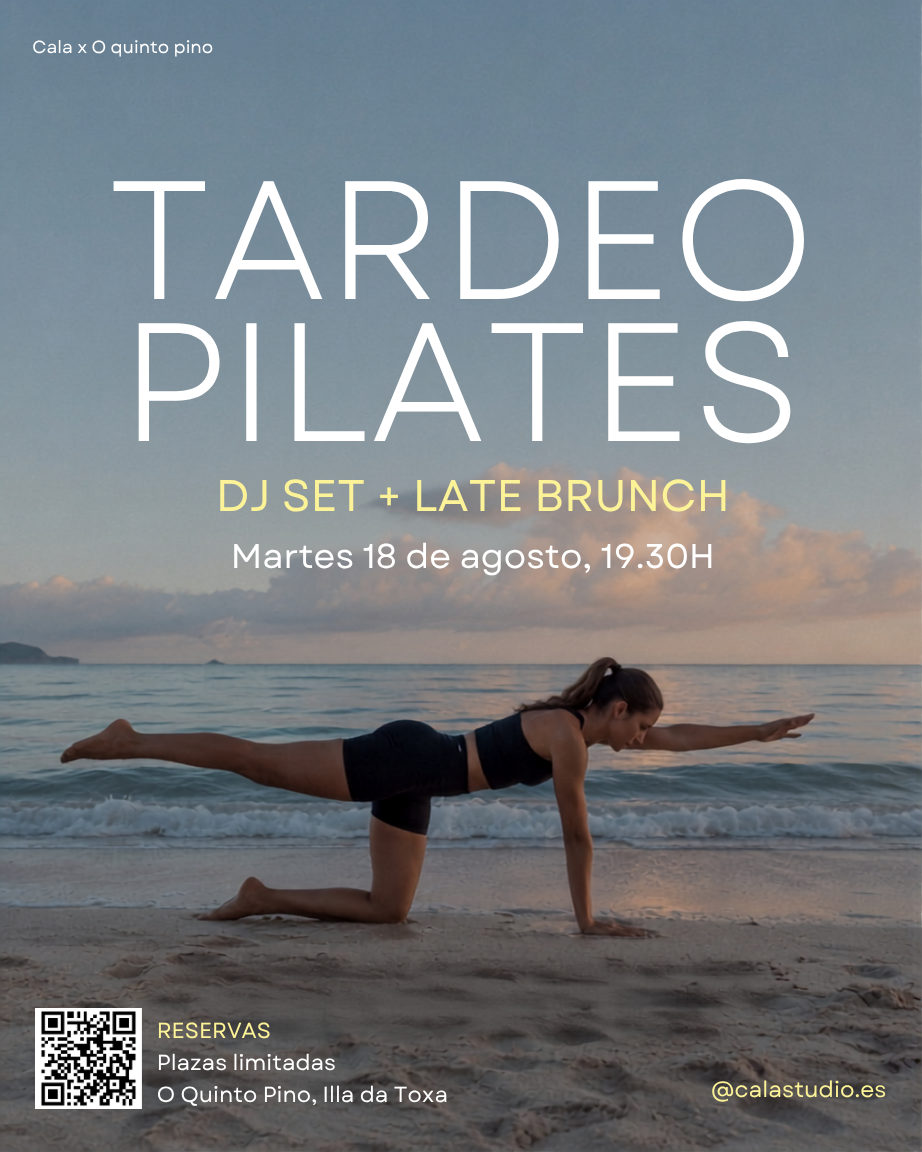
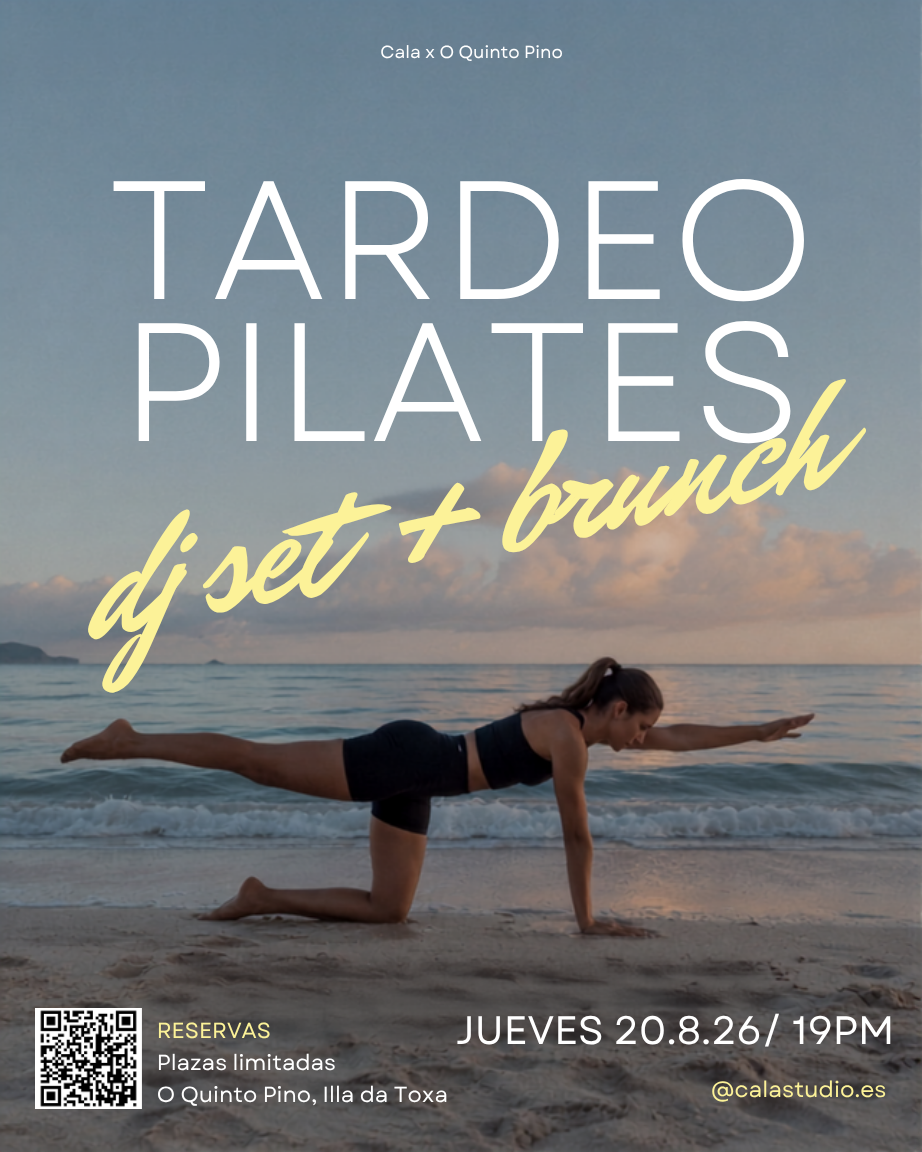
fix(evento): el Tardeo pasa al jueves 20 con su cartel definitivo
Cambio de fecha del Tardeo Pilates: del martes 18 al jueves 20 de
agosto. Entra el cartel definitivo exportado de Canva (script amarillo
"dj set + brunch" y JUEVES 20.8.26) y se actualizan tarjeta, ficha,
mensaje de reserva y texto de compartir.

La hora pasa a las 19:00h para ir alineada con el cartel.

diff --git a/src/data.js b/src/data.js
@@ -106,7 +106,7 @@ export const PRICING = [
 export const EVENT_CARDS = [
   {
     slug: "tardeo-pilates",
-    when: "Martes 18 de agosto",
+    when: "Jueves 20 de agosto",
     name: "Tardeo Pilates",
     place: "O Quinto Pino · Illa da Toxa",
     desc: "Pilates al atardecer en la ría con DJ set en directo y late brunch para rematar",
@@ -180,8 +180,8 @@ export const EVENTOS = {
       accent:     "#54748E",
       accentDeep: "#3E5A72",
     },
-    cuando: "Martes 18 de agosto",
-    hora: "19:30h",
+    cuando: "Jueves 20 de agosto",
+    hora: "19:00h",
     lugar: "O Quinto Pino, Illa da Toxa",
     // Sin precio cerrado todavía: no se enseña cifra, el botón de + info por
     // WhatsApp hace el trabajo. Cuando se cierre, añadir precio: "XX€"
@@ -191,8 +191,8 @@ export const EVENTOS = {
     descripcion: "Nos vamos de tardeo a la ría, junto al puente da Illa da Toxa: pilates al aire libre con la marea de fondo y un DJ set acompañando la sesión, y al acabar nos quedamos de late brunch viendo caer el sol",
     programa: "Pilates al atardecer · DJ set en directo · late brunch",
     ctaLabel: "+ Info por WhatsApp",
-    reservaMsg: "Hola! Quiero más info del Tardeo Pilates (martes 18 de agosto)",
-    compartirMsg: "Tardeo Pilates · martes 18 de agosto en la Illa da Toxa\nDJ set, brunch y atardecer, te vienes?",
+    reservaMsg: "Hola! Quiero más info del Tardeo Pilates (jueves 20 de agosto)",
+    compartirMsg: "Tardeo Pilates · jueves 20 de agosto en la Illa da Toxa\nDJ set, brunch y atardecer, te vienes?",
   },
 
   "community-sessions-vol-01": {
